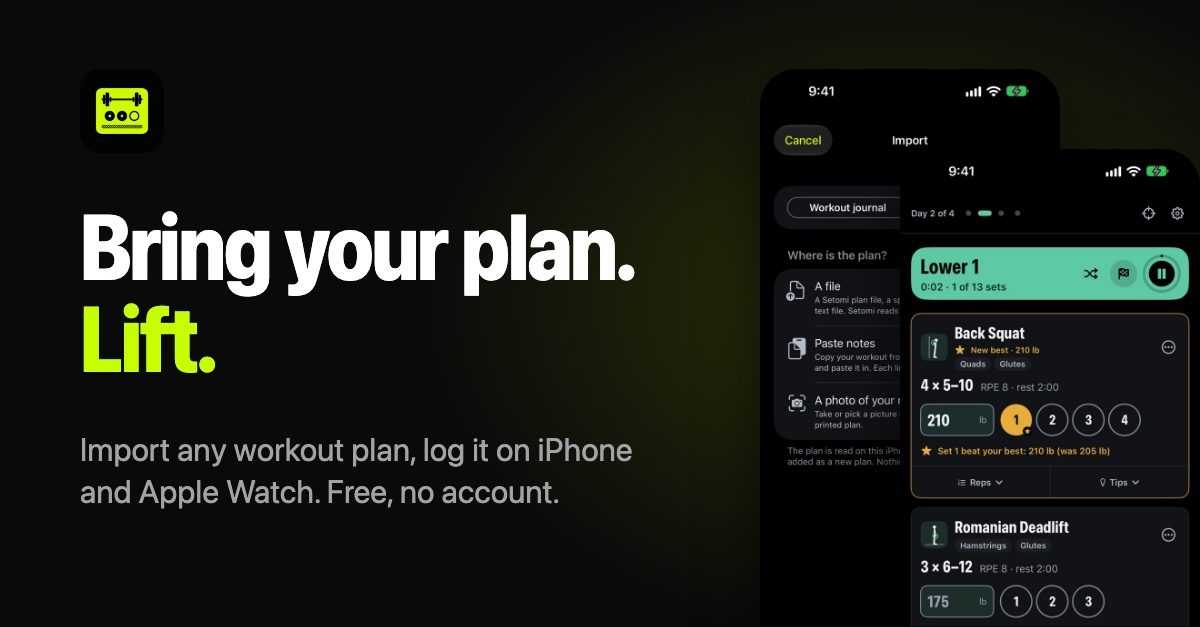
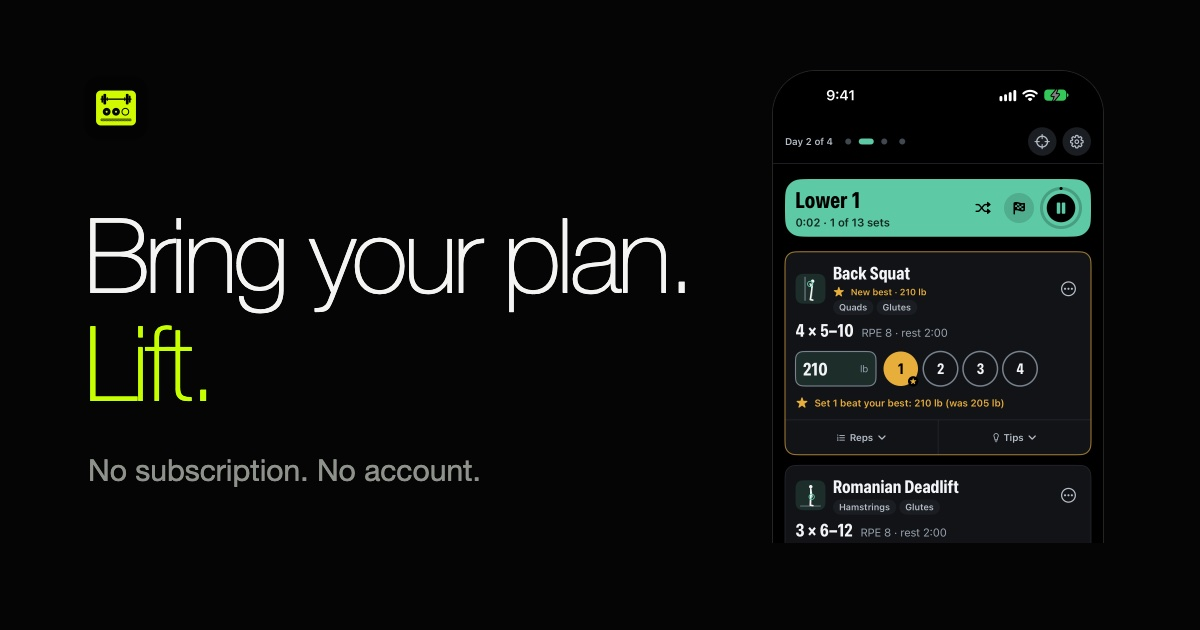
Site: Quiet Volt. One hero, three proofs, no subscription, no account

diff --git a/style.css b/style.css
@@ -1,66 +1,50 @@
-:root{color-scheme:light dark;--bg:#f4f6f1;--card:#fff;--fg:#101410;--mute:#566052;--line:#dde4d3;--accent:#4c7a00;--pop:#c6ff00;--soft:#eef8c9;--link:#3d6300}
-@media (prefers-color-scheme:dark){:root{--bg:#0a0a0a;--card:#141614;--fg:#f3f6ee;--mute:#a3ac9a;--line:#262b22;--accent:#c6ff00;--pop:#c6ff00;--soft:#1c2410;--link:#d2ff3a}}
+/* Quiet Volt: near-black, thin type, lime on a few words only (docs/marketing/BRAND_AUDIT.md, 2026-11-11). Shared by index, privacy and support. */
+:root{color-scheme:dark;--bg:#050505;--card:#0e0f0e;--fg:#f4f4f1;--mute:#8d928a;--line:#1e201d;--volt:#c6ff00}
 *{box-sizing:border-box}
 html{scroll-behavior:smooth}
-body{margin:0;background:var(--bg);color:var(--fg);font:17px/1.6 ui-rounded,"SF Pro Rounded",-apple-system,BlinkMacSystemFont,"Segoe UI",Roboto,sans-serif}
-a{color:var(--link)}
-.wrap{max-width:880px;margin:0 auto;padding:0 20px}
-header.top{display:flex;align-items:center;justify-content:space-between;padding:18px 0}
-.brand{display:flex;align-items:center;gap:12px;font-weight:800;font-size:1.25rem;color:var(--fg);text-decoration:none}
-.brand img{width:40px;height:40px;border-radius:10px}
-nav a{margin-left:18px;font-weight:700;text-decoration:none;color:var(--mute)}
+body{margin:0;background:var(--bg);color:var(--fg);font:17px/1.6 -apple-system,BlinkMacSystemFont,"SF Pro Text","Helvetica Neue",Helvetica,Arial,sans-serif;-webkit-font-smoothing:antialiased}
+a{color:var(--fg)}
+.wrap{max-width:1040px;margin:0 auto;padding:0 28px}
+header.top{display:flex;align-items:center;justify-content:space-between;padding:26px 0}
+.brand{display:flex;align-items:center;gap:12px;font-weight:500;font-size:1.05rem;letter-spacing:.01em;color:var(--fg);text-decoration:none}
+.brand img{width:32px;height:32px;border-radius:8px}
+nav a{margin-left:26px;font-weight:400;font-size:.95rem;text-decoration:none;color:var(--mute)}
 nav a:hover,nav a[aria-current]{color:var(--fg)}
-.hero{position:relative;overflow:hidden;background:linear-gradient(170deg,#eaffa6,#c6ff00);border-radius:36px;padding:48px 28px 0;text-align:center;color:#0a0a0a}
-@media (prefers-color-scheme:dark){.hero{background:linear-gradient(170deg,#1d2609,#0a0a0a);color:#f3f6ee}}
-.hero h1{font-size:clamp(2.2rem,7vw,3.6rem);line-height:1.08;margin:0 0 12px;letter-spacing:-.02em}
-.hero p{margin:0 auto 22px;max-width:520px;font-size:1.15rem;opacity:.85}
-.pill{display:inline-block;background:#0a0a0a;color:#c6ff00;font-weight:800;border-radius:999px;padding:12px 24px}
-@media (prefers-color-scheme:dark){.pill{background:#c6ff00;color:#0a0a0a}}
-.shots{display:flex;gap:14px;justify-content:center;margin-top:34px}
-.shots img{width:30%;max-width:210px;border-radius:26px 26px 0 0;box-shadow:0 18px 40px rgba(10,10,10,.3);display:block}
-.shots img:nth-child(odd){transform:translateY(22px)}
-.bubble{position:absolute;border-radius:50%;background:radial-gradient(circle at 30% 30%,rgba(255,255,255,.9),rgba(255,255,255,.2));opacity:.5}
-.grid{display:grid;grid-template-columns:repeat(auto-fit,minmax(240px,1fr));gap:16px;margin:36px 0}
-.card{background:var(--card);border:1px solid var(--line);border-radius:26px;padding:22px}
-.card h3{margin:0 0 6px;font-size:1.1rem}
-.card p{margin:0;color:var(--mute)}
-.card .dot{display:inline-grid;place-items:center;width:40px;height:40px;border-radius:50%;background:var(--soft);margin-bottom:12px;font-size:1.2rem}
-h2.sec{font-size:1.6rem;margin:40px 0 6px}
-.doc{background:var(--card);border:1px solid var(--line);border-radius:28px;padding:28px;margin:10px 0 30px}
-.doc h1{margin:0 0 4px;font-size:2rem}
-.doc h2{font-size:1.1rem;margin:26px 0 6px}
-.doc p{margin:0 0 12px}
-.date{color:var(--mute);margin-bottom:18px}
-.short{background:var(--soft);border-radius:18px;padding:16px;margin:0 0 6px}
-footer{border-top:1px solid var(--line);margin-top:48px;padding:24px 0 40px;color:var(--mute);font-size:.95rem;display:flex;flex-wrap:wrap;gap:8px 20px;justify-content:space-between}
-footer a{color:var(--mute)}
+.navcta{color:var(--fg)!important;border:1px solid #3a3d38;border-radius:999px;padding:8px 18px;white-space:nowrap}
+h1,h2{font-weight:300;letter-spacing:-.035em;line-height:1.05;margin:0}
+h1 em{font-style:normal;color:var(--volt)}
+.hero{display:grid;grid-template-columns:1.25fr .75fr;gap:56px;align-items:center;padding:72px 0 96px}
+.hero h1{font-size:clamp(2.8rem,7.4vw,5.4rem)}
+.hero p{color:var(--mute);font-size:1.2rem;max-width:30em;margin:26px 0 34px}
+.device{display:block;width:100%;max-width:300px;height:auto;justify-self:center;border-radius:38px;border:1px solid #232521}
+.proof{display:grid;grid-template-columns:.75fr 1.25fr;gap:72px;align-items:center;padding:72px 0;border-top:1px solid var(--line)}
+.proof.flip{grid-template-columns:1.25fr .75fr}.proof.flip>img{order:2}
+.proof h2{font-size:clamp(2rem,4.6vw,3.2rem)}
+.proof p{color:var(--mute);font-size:1.1rem;max-width:28em;margin:20px 0 0}
+.facts{border-top:1px solid var(--line);padding:84px 0;text-align:center}
+.facts p{font-size:clamp(1.4rem,3.4vw,2.2rem);font-weight:300;letter-spacing:-.02em;margin:0}
+.facts .quiet{font-size:1.05rem;font-weight:400;letter-spacing:0;color:var(--mute);margin-top:16px}
+.cta{border-top:1px solid var(--line);padding:84px 0 40px;text-align:center}
+.cta h2{font-size:clamp(2rem,4.6vw,3.2rem);margin-bottom:34px}
+.cta .waitlist{margin:0 auto;justify-content:center}
+.waitlist{display:flex;flex-wrap:wrap;gap:10px;max-width:520px}
+.waitlist input[type=email]{flex:1 1 220px;min-width:0;font:inherit;padding:13px 20px;border-radius:999px;border:1px solid #3a3d38;background:transparent;color:var(--fg)}
+.waitlist input[type=email]::placeholder{color:#5d615a}
+.waitlist input[type=email]:focus-visible{outline:2px solid var(--volt);outline-offset:2px}
+.waitlist button{font:inherit;font-weight:500;padding:13px 26px;border:0;border-radius:999px;background:var(--fg);color:#050505;cursor:pointer}
+.waitlist button:disabled{opacity:.6;cursor:default}
+.waitlist .note{flex:1 1 100%;margin:6px 0 0;font-size:.9rem;color:var(--mute)}
+.thanks{flex:1 1 100%;margin:0;font-size:1.1rem}
 .sr{position:absolute;width:1px;height:1px;overflow:hidden;clip:rect(0 0 0 0);white-space:nowrap}
 .hp{position:absolute;left:-9999px;width:1px;height:1px;opacity:0}
-.navcta{background:var(--fg);color:var(--bg)!important;border-radius:999px;padding:8px 16px}
-.waitlist{display:flex;flex-wrap:wrap;gap:10px;justify-content:center;max-width:520px;margin:0 auto}
-.waitlist input[type=email]{flex:1 1 220px;min-width:0;font:inherit;padding:14px 18px;border-radius:999px;border:2px solid rgba(10,10,10,.85);background:#fff;color:#0a0a0a}
-.waitlist input[type=email]:focus-visible{outline:3px solid #0a0a0a;outline-offset:2px}
-.waitlist button{font:inherit;font-weight:800;padding:14px 24px;border:0;border-radius:999px;background:#0a0a0a;color:#c6ff00;cursor:pointer}
-.waitlist button:disabled{opacity:.6;cursor:default}
-.waitlist .note{flex:1 1 100%;margin:2px 0 0;font-size:.9rem;opacity:.75}
-.thanks{flex:1 1 100%;margin:0;font-weight:800;font-size:1.1rem}
-@media (prefers-color-scheme:dark){.waitlist input[type=email]{border-color:#c6ff00;background:#0a0a0a;color:#f3f6ee}.waitlist input[type=email]:focus-visible{outline-color:#c6ff00}.waitlist button{background:#c6ff00;color:#0a0a0a}}
-.hero .shots{margin-top:38px}
-.hero .shots img{width:31%;max-width:230px;height:auto}
-.split{display:grid;grid-template-columns:1.1fr .9fr;gap:36px;align-items:center;margin:72px 0}
-.split.flip{grid-template-columns:.9fr 1.1fr}.split.flip>div{order:2}
-.split h2{font-size:clamp(1.6rem,4.5vw,2.2rem);line-height:1.15;margin:0 0 12px;letter-spacing:-.01em}
-.split p{color:var(--mute);margin:0 0 16px}
-.split img{width:100%;max-width:300px;height:auto;justify-self:center;border-radius:28px;box-shadow:0 18px 40px rgba(10,10,10,.22)}
-.ticks{list-style:none;margin:0;padding:0}
-.ticks li{padding-left:28px;position:relative;margin:8px 0}
-.ticks li:before{content:"";position:absolute;left:0;top:.45em;width:14px;height:14px;border-radius:50%;background:var(--pop);box-shadow:inset 0 0 0 3px var(--accent)}
-.strip{display:flex;flex-wrap:wrap;gap:10px;justify-content:center;margin:40px 0}
-.strip span{border:1px solid var(--line);background:var(--card);border-radius:999px;padding:8px 16px;font-weight:700;color:var(--mute);font-size:.95rem}
-.cta{text-align:center;background:linear-gradient(170deg,#eaffa6,#c6ff00);color:#0a0a0a;border-radius:36px;padding:48px 24px;margin:48px 0 28px}
-.cta h2{font-size:clamp(1.8rem,5vw,2.4rem);margin:0 0 8px}
-.cta p{margin:0 auto 20px;max-width:460px}
-@media (prefers-color-scheme:dark){.cta{background:linear-gradient(170deg,#1d2609,#0a0a0a);color:#f3f6ee;border:1px solid var(--line)}}
-@media (max-width:640px){.split,.split.flip{grid-template-columns:1fr;gap:22px;margin:52px 0}.split.flip>div{order:0}.hero .shots img:nth-child(3){display:none}.hero .shots img{width:44%}nav a{margin-left:12px}.navcta{padding:7px 12px}}
-.navcta{white-space:nowrap}
-@media (max-width:640px){nav a:not(.navcta){display:none}.brand{font-size:1.1rem}}
+/* privacy and support pages */
+.doc{background:var(--card);border:1px solid var(--line);border-radius:24px;padding:36px;margin:20px 0 30px}
+.doc h1{font-size:2.4rem;margin:0 0 6px}
+.doc h2{font-size:1.25rem;font-weight:500;letter-spacing:-.01em;line-height:1.3;margin:30px 0 8px}
+.doc p,.doc li{color:#c9ccc5}
+.doc p{margin:0 0 12px}
+.date{color:var(--mute);margin-bottom:20px}
+.short{border:1px solid #2c2f29;border-radius:16px;padding:18px;margin:0 0 8px}
+footer{border-top:1px solid var(--line);margin-top:56px;padding:26px 0 44px;color:var(--mute);font-size:.9rem;display:flex;flex-wrap:wrap;gap:8px 20px;justify-content:space-between}
+footer a{color:var(--mute)}
+@media (max-width:720px){.hero,.proof,.proof.flip{grid-template-columns:1fr;gap:36px;padding:52px 0}.proof.flip>img{order:0}.device{max-width:240px}nav a:not(.navcta){display:none}}

diff --git a/index.html b/index.html
@@ -4,10 +4,10 @@
 <meta charset="utf-8">
 <meta name="viewport" content="width=device-width, initial-scale=1">
 <title>Setomi: bring your plan, lift</title>
-<meta name="description" content="Import any workout plan from a PDF, spreadsheet, photo or notes, then log it on iPhone and Apple Watch. Free, no account, no ads. Join the waitlist.">
+<meta name="description" content="Bring the workout plan you already have, from a PDF, spreadsheet, photo or notes, and log it set by set on iPhone and Apple Watch. No subscription. No account.">
 <meta property="og:type" content="website">
 <meta property="og:title" content="Setomi: bring your plan, lift">
-<meta property="og:description" content="Import any workout plan, log it on iPhone and Apple Watch. Free, no account, no ads. Everything stays on your devices.">
+<meta property="og:description" content="The lifting log that starts from the plan you already have. No subscription. No account.">
 <meta property="og:image" content="https://phoodie.github.io/Setomi/img/og.jpg">
 <meta property="og:url" content="https://phoodie.github.io/Setomi/">
 <meta name="twitter:card" content="summary_large_image">
@@ -22,10 +22,9 @@
 </header>
 <main>
 <section class="hero">
-<div class="bubble" style="width:220px;height:220px;right:-60px;top:-50px"></div>
-<div class="bubble" style="width:140px;height:140px;left:-40px;top:240px"></div>
-<h1>Bring your plan.<br>Lift.</h1>
-<p>Import a PDF, spreadsheet, photo or pasted notes and lift straight from it. Last time's weights ready, a rest timer on your lock screen, an Apple Watch app. Free, no account, no ads.</p>
+<div class="copy">
+<h1>Bring your plan. <em>Lift.</em></h1>
+<p>The lifting log that starts from the plan you already have. On iPhone and Apple Watch.</p>
 <form class="waitlist" data-waitlist novalidate>
 <label class="sr" for="email-hero">Email address</label>
 <input id="email-hero" type="email" name="email" placeholder="you@email.com" autocomplete="email" required>
@@ -33,66 +32,49 @@
 <button type="submit">Join the waitlist</button>
 <p class="note" role="status" aria-live="polite">One email when Setomi is on the App Store. Nothing else.</p>
 </form>
-<div class="shots">
-<img src="img/home.jpg" width="330" height="715" alt="Setomi Home: a Get started checklist, the next workout with a play button, this week and streak tiles">
-<img src="img/workout.jpg" width="330" height="715" alt="Logging a workout: a set done, the rest timer running and a new best on Back Squat">
-<img src="img/progress.jpg" width="330" height="715" alt="Progress: strength score, estimated one-rep max chart and reports">
 </div>
+<img class="device" src="img/workout.jpg" width="330" height="715" alt="A workout day in Setomi: Back Squat with four set circles, the first one logged as a new best">
 </section>
 
-<section class="split">
+<section class="proof">
+<img class="device" src="img/import.jpg" width="330" height="715" alt="A pasted plan read by Setomi: two days and eight lifts, every lift matched">
 <div>
-<h2>Your plan, wherever it lives</h2>
-<p>A trainer's PDF, a spreadsheet, a note on your phone, a photo of the whiteboard. Setomi reads it on your iPhone, shows you what it found, and builds your days. Nothing is saved until you say so.</p>
-<ul class="ticks"><li>PDF, spreadsheet, pasted notes or a photo</li><li>Check and fix everything before it's saved</li><li>Or start from a template, or build your own</li></ul>
+<h2>Any plan, as it is.</h2>
+<p>A trainer's PDF, a spreadsheet, a note, a photo of the whiteboard. Setomi reads it on your iPhone and shows you what it found before anything is saved.</p>
 </div>
-<img src="img/import.jpg" width="330" height="715" alt="The Import screen: choose a file, paste notes or use a photo of your plan">
 </section>
 
-<section class="split flip">
+<section class="proof flip">
+<img class="device" src="img/suggestion.jpg" width="330" height="715" alt="A lift marked Time to increase after reaching the top of its rep range">
 <div>
-<h2>Made for the gym floor</h2>
-<p>One screen per day. Tap a set when you finish it. Last time's weight is already there, the rest timer runs on your lock screen and Dynamic Island, and the app tells you when it's time to add weight.</p>
-<ul class="ticks"><li>Log with the Digital Crown on Apple Watch</li><li>Swap any lift for a close match, or shuffle the day</li><li>A friendly checklist and quick tour for your first week</li></ul>
+<h2>One tap per set.</h2>
+<p>Last time's weight is already there. Rest starts on its own, on your lock screen and on your wrist, and Setomi tells you when it is time to add weight.</p>
 </div>
-<img src="img/workout.jpg" width="330" height="715" alt="A workout day with Back Squat and Romanian Deadlift, set bubbles and last time's weights">
 </section>
 
-<section class="split">
+<section class="proof">
+<img class="device" src="img/progress.jpg" width="330" height="715" alt="Progress: a strength score, an estimated one-rep max chart and reports">
 <div>
-<h2>See yourself get stronger</h2>
-<p>Estimated one-rep maxes, top-set charts, new records and weekly streaks. A muscle map shows what you've trained, and a monthly report and year in review look back.</p>
-<ul class="ticks"><li>About 480 lifts, each with muscles, a cue and a drawn icon</li><li>Home screen and lock screen widgets</li><li>Eight themes and nine app icons</li></ul>
+<h2>Progress you can hand over.</h2>
+<p>Records, estimated one-rep maxes and streaks, kept in a journal you can send to your coach as a PDF with graphs.</p>
 </div>
-<img src="img/muscles.jpg" width="330" height="715" alt="The Body page: a front and back muscle map shaded by sets trained">
 </section>
 
-<section class="split flip">
-<div>
-<h2>Hand it to your coach</h2>
-<p>Export your workout journal as a clean PDF with progress graphs, or as a spreadsheet or full backup. Send it to a coach or trainer, or keep it safe in Files.</p>
-<ul class="ticks"><li>PDF with graphs, CSV and JSON</li><li>Share a plan with a friend as a file</li><li>Back up and restore any time</li></ul>
-</div>
-<img src="img/coach.jpg" width="330" height="715" alt="The Export screen with a readable PDF report selected">
-</section>
-
-<section class="strip" aria-label="Also">
-<span>Free, no subscription</span><span>No account</span><span>No ads or tracking</span><span>Data stays on your iPhone</span><span>Apple Health, only if you choose</span>
+<section class="facts" aria-label="How Setomi is run">
+<p>No subscription. No account. No ads. No tracking.</p>
+<p class="quiet">Your plans and history stay on your iPhone. Apple Health only if you choose.</p>
 </section>
 
 <section class="cta" id="join">
-<h2>Be first in line</h2>
-<p>Setomi is coming to the App Store. Leave your email and you'll get one message when it's live.</p>
+<h2>Coming to the App Store.</h2>
 <form class="waitlist" data-waitlist novalidate>
 <label class="sr" for="email-cta">Email address</label>
 <input id="email-cta" type="email" name="email" placeholder="you@email.com" autocomplete="email" required>
 <input class="hp" type="text" name="company" tabindex="-1" autocomplete="off" aria-hidden="true">
 <button type="submit">Join the waitlist</button>
-<p class="note" role="status" aria-live="polite">No spam. Unsubscribe by replying.</p>
+<p class="note" role="status" aria-live="polite">One email when it is live. Unsubscribe by replying.</p>
 </form>
 </section>
-
-<p style="text-align:center">Questions? Visit <a href="support.html">Support</a>. Read the <a href="privacy.html">Privacy Policy</a>.</p>
 </main>
 <footer><span>&copy; 2026 Dylan McCoy</span><span><a href="privacy.html">Privacy Policy</a> &middot; <a href="support.html">Support</a></span></footer>
 </div>

diff --git a/README.md b/README.md
@@ -1,6 +1,6 @@
 # Setomi website
 
-The public site for **Setomi**, an iPhone and Apple Watch workout logger: your plan, set by set. No account, no subscription.
+The public site for **Setomi**, the lifting log for iPhone and Apple Watch that starts from the plan you already have. No subscription. No account.
 
 - Home: https://phoodie.github.io/Setomi/
 - Privacy policy: https://phoodie.github.io/Setomi/privacy.html
